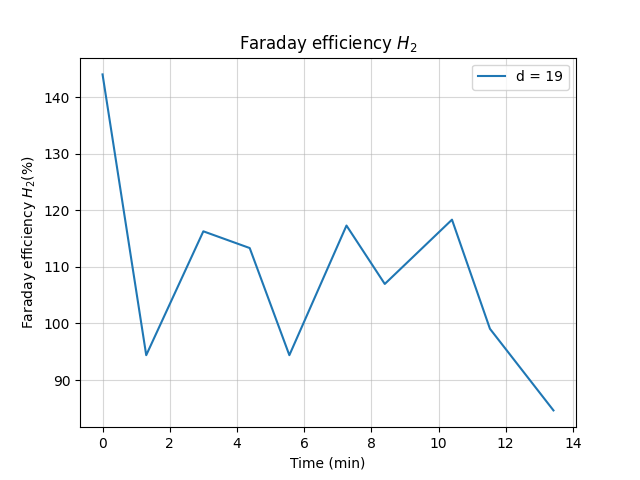
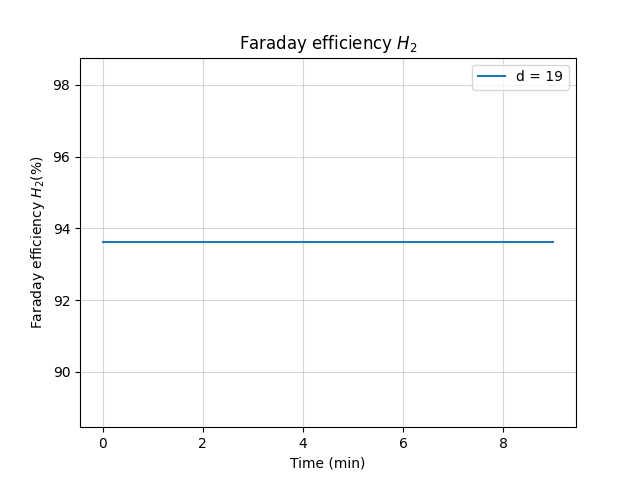
Pilou Pilou hopefully last commit AAAHHHHH !!!!

diff --git a/graph_plotter.py b/graph_plotter.py
@@ -104,7 +104,11 @@ if param_name == "U":
     theorical_speed = theorical_speed[:-1, :]
     farad_eff_H2 = np.zeros(theorical_speed.shape)
     farad_eff_H2[:, 0] = theorical_speed[:, 0]
-    farad_eff_H2[:, 1:] = H2_speed[:, 1:]/theorical_speed[:, 1:]
+    farad_eff_H2[:, 1:] = 100*H2_speed[:, 1:]/theorical_speed[:, 1:]
+
+    farad_eff_O2 = np.zeros(theorical_speed.shape)
+    farad_eff_O2[:, 0] = theorical_speed[:, 0]
+    farad_eff_O2[:, 1:] = 100*O2_speed[:, 1:]/(theorical_speed[:, 1:]*2)
 
 elif param_name == "I":
     theorical_speed = np.zeros(U.shape)
@@ -117,7 +121,7 @@ elif param_name == "I":
 
     farad_eff_O2 = np.zeros(theorical_speed.shape)
     farad_eff_O2[:, 0] = theorical_speed[:, 0]
-    farad_eff_O2[:, 1:] = 100*O2_speed[:, 1:]/(theorical_speed[:, 1:]/2)
+    farad_eff_O2[:, 1:] = 100*O2_speed[:, 1:]/(theorical_speed[:, 1:]*2)
     
 else:
     theorical_speed = np.ones(U.shape)
@@ -130,7 +134,7 @@ else:
 
     farad_eff_O2 = np.zeros(theorical_speed.shape)
     farad_eff_O2[:, 0] = theorical_speed[:, 0]
-    farad_eff_O2[:, 1:] = 100*O2_speed[:, 1:]/(theorical_speed[:, 1:]/2)
+    farad_eff_O2[:, 1:] = 100*O2_speed[:, 1:]/(theorical_speed[:, 1:]*2)
 
 plt.figure()
 for i in range(1, farad_eff_H2[0].shape[0]):
@@ -170,7 +174,7 @@ if param_name == "U" or param_name == "I":
 
     energy_eff_O2 = np.zeros(energy_consumption.shape)
     energy_eff_O2[:, 0] = energy_consumption[:, 0]
-    energy_eff_O2[:, 1:] = 100*((2*285.8/(24.05))*V_O2[:, 1:])/ energy_consumption[:, 1:]
+    energy_eff_O2[:, 1:] = 100*((2*285.8/(2*24.05))*V_O2[:, 1:])/ energy_consumption[:, 1:]
 
 else:
     energy_consumption = np.ones(U.shape)
@@ -185,7 +189,7 @@ else:
 
     energy_eff_O2 = np.zeros(energy_consumption.shape)
     energy_eff_O2[:, 0] = energy_consumption[:, 0]
-    energy_eff_O2[:, 1:] = 100*((2*285.8/(24.05))*V_O2[:, 1:])/ energy_consumption[:, 1:]
+    energy_eff_O2[:, 1:] = 100*((285.8/(2*24.05))*V_O2[:, 1:])/ energy_consumption[:, 1:]
 
 
 plt.figure()
